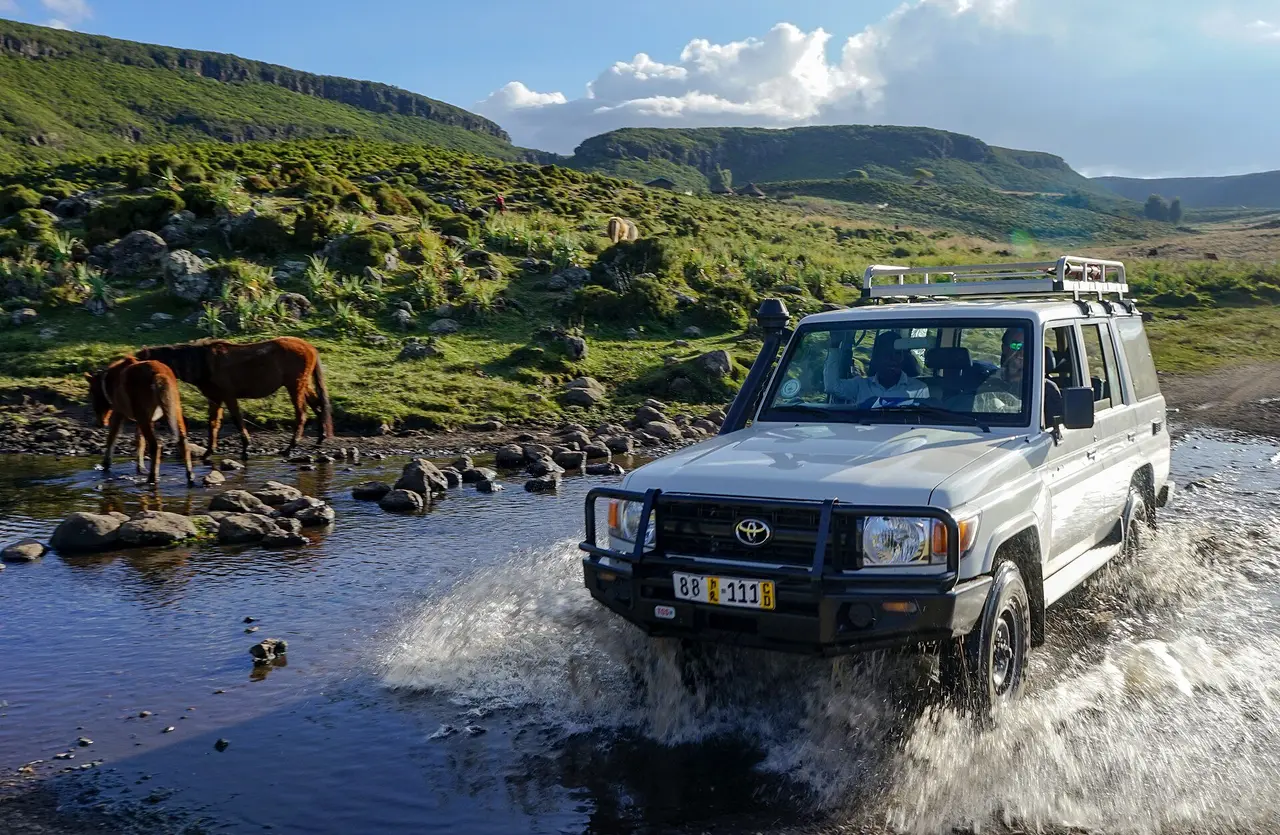
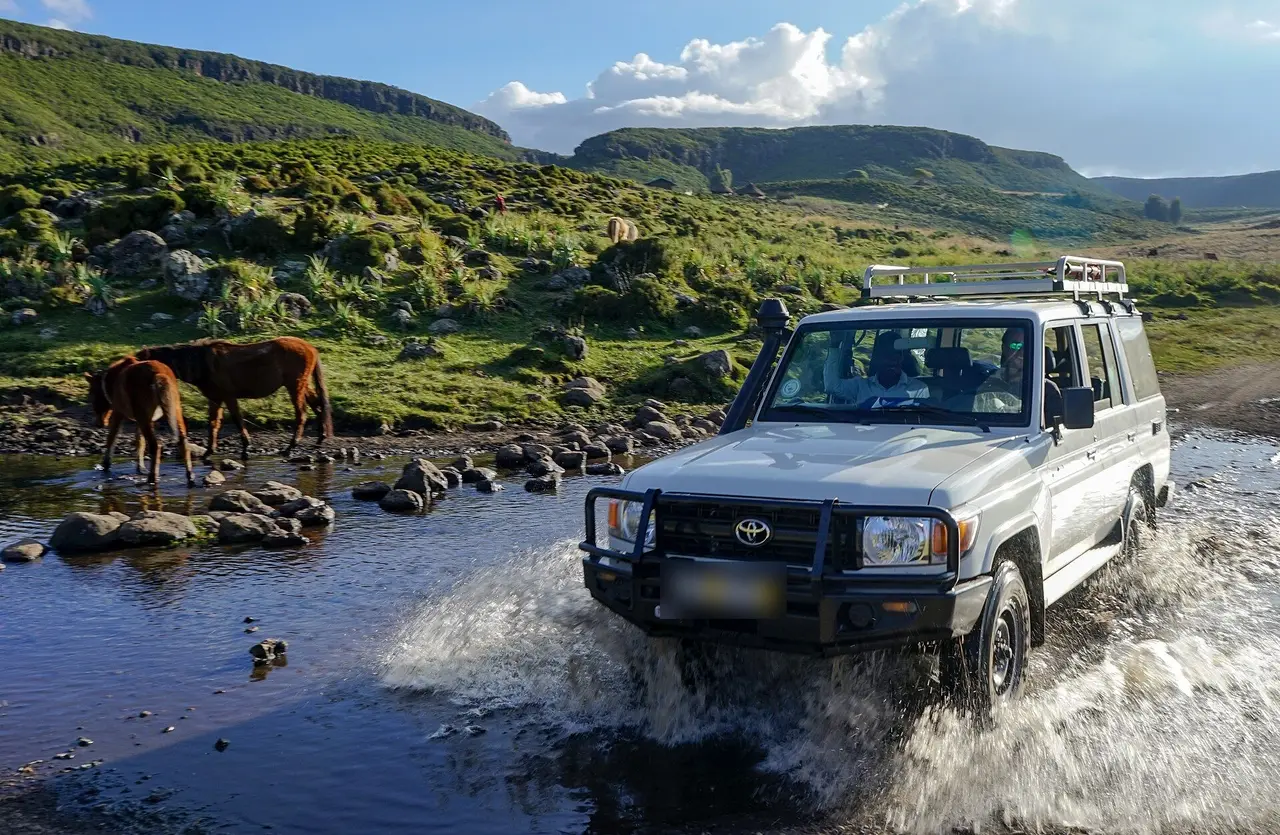
For-sale picks: same-model photos from our licensed library (credited, 'not this truck'); swap GX470 pick (only parked photos) for a 4th Gen 4Runner; blur LC70 river-crossing plate
Claude-Session: https://claude.ai/code/session_01Q1QwcL3BhkRrCtgHrzdRcF

Changed region(s): [[0.5, 0.6539, 0.625, 0.7473]]

diff --git a/site/for-sale/index.html b/site/for-sale/index.html
@@ -82,48 +82,56 @@ btAfterLoad(function(){var s=document.createElement('script');s.async=true;s.src
     <div class="sec-head"><div style="display:flex;flex-direction:column;gap:6px"><span class="eyebrow">This week's picks · Week of November 25, 2026</span><h2>Boxy trucks for sale this week</h2></div></div>
     <p class="sub-intro">Eight auctions worth watching this week, picked from every live Bring a Trailer listing that matches a truck we cover. Bids are as of Wednesday morning. Each card links to our checklist for that truck, so read it before you bid.</p>
     <div class="fs-grid"><article class="fs-card">
-      <div class="fs-top"><span class="mono fs-bid">$25,000 bid</span></div>
-      <h3><a href="https://bringatrailer.com/listing/2005-lexus-gx470-30/" target="_blank" rel="noopener" data-fs-click="1">37k-mile 2005 Lexus GX470 ↗</a></h3>
-      <p class="fs-ends mono">Ends Fri Nov 27, 3:05 PM ET</p>
-      <p>GX 470s sold for $15,555–24,750 on BaT in the past month (4 sales).</p>
-      <a class="inline-link" href="/models/lexus/gx470/problems/">What to check before you bid →</a>
+      <figure class="fs-ph"><img src="/img/4runner/gen4-vilano-beach.jpg" alt="A Toyota 4Runner 4th Gen (example photo, not the truck for sale)" loading="lazy" srcset="/img/_r/4runner/gen4-vilano-beach-480.webp 480w, /img/_r/4runner/gen4-vilano-beach-800.webp 800w, /img/_r/4runner/gen4-vilano-beach-1280.webp 1280w, /img/4runner/gen4-vilano-beach.jpg 2000w" sizes="(max-width: 760px) 100vw, (max-width: 1200px) 60vw, 720px" decoding="async"><figcaption>Same model, not this truck · Lance Asper</figcaption></figure>
+      <div class="fs-top"><span class="mono fs-bid">$9,500 bid</span></div>
+      <h3><a href="https://bringatrailer.com/listing/2004-toyota-4runner-50/" target="_blank" rel="noopener" data-fs-click="1">2004 Toyota 4Runner SR5 V8 ↗</a></h3>
+      <p class="fs-ends mono">Ends Fri Nov 27, 5:34 PM ET</p>
+      <p>4th Gen 4Runners sold for $12,250–28,500 last month, with all 5 selling (median $18,500).</p>
+      <a class="inline-link" href="/models/4runner/4th-gen/problems/">What to check before you bid →</a>
     </article><article class="fs-card">
+      <figure class="fs-ph"><img src="/img/land-cruiser/fj60-ingeegoodbee.jpg" alt="A Toyota Land Cruiser FJ60 (example photo, not the truck for sale)" loading="lazy" srcset="/img/_r/land-cruiser/fj60-ingeegoodbee-480.webp 480w, /img/_r/land-cruiser/fj60-ingeegoodbee-800.webp 800w, /img/_r/land-cruiser/fj60-ingeegoodbee-1280.webp 1280w, /img/land-cruiser/fj60-ingeegoodbee.jpg 2000w" sizes="(max-width: 760px) 100vw, (max-width: 1200px) 60vw, 720px" decoding="async"><figcaption>Same model, not this truck · Leighblackall · CC BY-SA 4.0</figcaption></figure>
       <div class="fs-top"><span class="mono fs-bid">$15,500 bid</span></div>
       <h3><a href="https://bringatrailer.com/listing/1984-toyota-land-cruiser-fj60-171/" target="_blank" rel="noopener" data-fs-click="2">1984 Toyota Land Cruiser FJ60, 4-speed ↗</a></h3>
       <p class="fs-ends mono">Ends Fri Nov 27, 1:46 PM ET</p>
       <p>60 Series median: $32,000 over the past month, with 12 of 13 sold.</p>
       <a class="inline-link" href="/models/land-cruiser/fj60/problems/">What to check before you bid →</a>
     </article><article class="fs-card">
+      <figure class="fs-ph"><img src="/img/lexus/lx450-dirt-mound.jpg" alt="A Lexus LX 450 (example photo, not the truck for sale)" loading="lazy" srcset="/img/_r/lexus/lx450-dirt-mound-480.webp 480w, /img/_r/lexus/lx450-dirt-mound-800.webp 800w, /img/lexus/lx450-dirt-mound.jpg 1024w" sizes="(max-width: 760px) 100vw, (max-width: 1200px) 60vw, 720px" decoding="async"><figcaption>Same model, not this truck · loefflerw · CC BY-SA 2.0</figcaption></figure>
       <div class="fs-top"><span class="mono fs-bid">$26,000 bid</span></div>
       <h3><a href="https://bringatrailer.com/listing/1996-lexus-lx450-85/" target="_blank" rel="noopener" data-fs-click="3">1996 Lexus LX450 ↗</a></h3>
       <p class="fs-ends mono">Ends Fri Nov 27, 6:11 PM ET</p>
       <p>All 17 LX 450s and 470s sold last month, at a $26,500 median. A 28k-mile LX 450 made $82,000.</p>
       <a class="inline-link" href="/models/lexus/lx450/problems/">What to check before you bid →</a>
     </article><article class="fs-card">
+      <figure class="fs-ph"><img src="/img/land-rover/defender-mud-splash.jpg" alt="A Land Rover 90 / 110 / Defender (example photo, not the truck for sale)" loading="lazy" srcset="/img/_r/land-rover/defender-mud-splash-480.webp 480w, /img/_r/land-rover/defender-mud-splash-800.webp 800w, /img/_r/land-rover/defender-mud-splash-1280.webp 1280w, /img/land-rover/defender-mud-splash.jpg 1800w" sizes="(max-width: 760px) 100vw, (max-width: 1200px) 60vw, 720px" decoding="async"><figcaption>Same model, not this truck · Thomas Tucker</figcaption></figure>
       <div class="fs-top"><span class="mono fs-bid">$10,250 bid</span><span class="fs-nr">No reserve</span></div>
       <h3><a href="https://bringatrailer.com/listing/1996-land-rover-defender-130-16/" target="_blank" rel="noopener" data-fs-click="4">1996 Land Rover Defender 130 300Tdi Hi-Cap, 5-speed ↗</a></h3>
       <p class="fs-ends mono">Ends Fri Nov 27, 7:25 PM ET</p>
       <p>No reserve. Classic Defenders sold at a $43,250 median last month, but only 16 of 33 met reserve.</p>
       <a class="inline-link" href="/models/land-rover/defender-90-110/problems/">What to check before you bid →</a>
     </article><article class="fs-card">
+      <figure class="fs-ph"><img src="/img/g-class/g55-schockl-forest-track.jpg" alt="A Mercedes-Benz G 55 AMG (example photo, not the truck for sale)" loading="lazy" srcset="/img/_r/g-class/g55-schockl-forest-track-480.webp 480w, /img/_r/g-class/g55-schockl-forest-track-800.webp 800w, /img/_r/g-class/g55-schockl-forest-track-1280.webp 1280w, /img/g-class/g55-schockl-forest-track.jpg 1920w" sizes="(max-width: 760px) 100vw, (max-width: 1200px) 60vw, 720px" decoding="async"><figcaption>Same model, not this truck · Bahnfrend · CC BY-SA 3.0</figcaption></figure>
       <div class="fs-top"><span class="mono fs-bid">$28,571 bid</span><span class="fs-nr">No reserve</span></div>
       <h3><a href="https://bringatrailer.com/listing/2005-mercedes-benz-g55-amg-47/" target="_blank" rel="noopener" data-fs-click="5">2005 Mercedes-Benz G55 AMG ↗</a></h3>
       <p class="fs-ends mono">Ends Fri Nov 27, 7:53 PM ET</p>
       <p>No reserve. Early W463 G 500s sold for $20,250–32,100 last month.</p>
       <a class="inline-link" href="/models/g-class/g55-amg/problems/">What to check before you bid →</a>
     </article><article class="fs-card">
+      <figure class="fs-ph"><img src="/img/land-cruiser/fj-cruiser-mountain-ledge.jpg" alt="A Toyota FJ Cruiser (example photo, not the truck for sale)" loading="lazy" srcset="/img/_r/land-cruiser/fj-cruiser-mountain-ledge-480.webp 480w, /img/_r/land-cruiser/fj-cruiser-mountain-ledge-800.webp 800w, /img/_r/land-cruiser/fj-cruiser-mountain-ledge-1280.webp 1280w, /img/land-cruiser/fj-cruiser-mountain-ledge.jpg 2000w" sizes="(max-width: 760px) 100vw, (max-width: 1200px) 60vw, 720px" decoding="async"><figcaption>Same model, not this truck · Brice Cooper</figcaption></figure>
       <div class="fs-top"><span class="mono fs-bid">$26,250 bid</span></div>
       <h3><a href="https://bringatrailer.com/listing/2010-toyota-fj-cruiser-95/" target="_blank" rel="noopener" data-fs-click="6">47k-mile 2010 Toyota FJ Cruiser Trail Teams Special Edition, 6-speed ↗</a></h3>
       <p class="fs-ends mono">Ends Fri Nov 27, 8:13 PM ET</p>
       <p>FJ Cruiser median: $23,000. A 16k-mile 2014 Trail Teams Ultimate made $68,888.</p>
       <a class="inline-link" href="/models/land-cruiser/fj-cruiser/problems/">What to check before you bid →</a>
     </article><article class="fs-card">
+      <figure class="fs-ph"><img src="/img/land-cruiser/lc70-bale-river-crossing.jpg" alt="A Toyota Land Cruiser 70 Series (example photo, not the truck for sale)" loading="lazy" srcset="/img/_r/land-cruiser/lc70-bale-river-crossing-480.webp 480w, /img/_r/land-cruiser/lc70-bale-river-crossing-800.webp 800w, /img/_r/land-cruiser/lc70-bale-river-crossing-1280.webp 1280w, /img/land-cruiser/lc70-bale-river-crossing.jpg 1920w" sizes="(max-width: 760px) 100vw, (max-width: 1200px) 60vw, 720px" decoding="async"><figcaption>Same model, not this truck · Nina R · CC BY 2.0</figcaption></figure>
       <div class="fs-top"><span class="mono fs-bid">$5,070 bid</span><span class="fs-nr">No reserve</span></div>
       <h3><a href="https://bringatrailer.com/listing/1993-toyota-land-cruiser-pzj70-3/" target="_blank" rel="noopener" data-fs-click="7">1993 Toyota Land Cruiser FZJ70 ↗</a></h3>
       <p class="fs-ends mono">Ends Mon Nov 30, 2:20 PM ET</p>
       <p>No reserve. 70 Series median: $16,900 (6 sold last month).</p>
       <a class="inline-link" href="/models/land-cruiser/70-series/problems/">What to check before you bid →</a>
     </article><article class="fs-card">
+      <figure class="fs-ph"><img src="/img/jeep/tj-shotgun-creek-rocks.jpg" alt="A Jeep Wrangler TJ (example photo, not the truck for sale)" loading="lazy" srcset="/img/_r/jeep/tj-shotgun-creek-rocks-480.webp 480w, /img/_r/jeep/tj-shotgun-creek-rocks-800.webp 800w, /img/_r/jeep/tj-shotgun-creek-rocks-1280.webp 1280w, /img/jeep/tj-shotgun-creek-rocks.jpg 2000w" sizes="(max-width: 760px) 100vw, (max-width: 1200px) 60vw, 720px" decoding="async"><figcaption>Same model, not this truck · Carlos Velez, Salem Jeepers, via BLM Oregon &amp; Washington · Public domain (as tagged on Commons)</figcaption></figure>
       <div class="fs-top"><span class="mono fs-bid">$13,000 bid</span></div>
       <h3><a href="https://bringatrailer.com/listing/2005-jeep-wrangler-323/" target="_blank" rel="noopener" data-fs-click="8">21k-mile 2005 Jeep Wrangler Rubicon 4.0 ↗</a></h3>
       <p class="fs-ends mono">Ends Mon Nov 30, 3:21 PM ET</p>

diff --git a/templates/hub.html b/templates/hub.html
@@ -91,6 +91,7 @@
     <div class="sec-head"><div style="display:flex;flex-direction:column;gap:6px"><span class="eyebrow">This week's picks · {{ FS_PICKS.title }}</span><h2>Boxy trucks for sale this week</h2></div></div>
     <p class="sub-intro">{{ FS_PICKS.intro }}</p>
     <div class="fs-grid">{% for pk in FS_PICKS.picks %}<article class="fs-card">
+      {% if pk.photo %}<figure class="fs-ph"><img src="{{ root }}{{ pk.photo }}" alt="{{ pk.photo_alt }}" loading="lazy"><figcaption>Same model, not this truck{% if pk.photo_credit %} · {{ pk.photo_credit }}{% endif %}</figcaption></figure>{% endif %}
       <div class="fs-top"><span class="mono fs-bid">${{ '{:,}'.format(pk.bid) }} bid</span>{% if pk.no_reserve %}<span class="fs-nr">No reserve</span>{% endif %}</div>
       <h3><a href="{{ pk.url }}" target="_blank" rel="noopener" data-fs-click="{{ loop.index }}">{{ pk.title }} ↗</a></h3>
       <p class="fs-ends mono">Ends {{ pk.ends_h }}</p>

diff --git a/site/assets/site.css b/site/assets/site.css
@@ -1192,3 +1192,7 @@ main section.rep-sec { contain-intrinsic-size: auto 56px; }
 .fs-nr { font-size: 11px; letter-spacing: .08em; text-transform: uppercase; border: 1px solid currentColor; padding: 2px 6px; }
 .fs-ends { font-size: 12px; opacity: .7; }
 @media (max-width: 520px) { .mr-notable li { grid-template-columns: 1fr; gap: 2px; } }
+.fs-card { padding-top: 0; }
+.fs-ph { margin: 0 -18px 4px; position: relative; }
+.fs-ph img { width: 100%; aspect-ratio: 16 / 10; object-fit: cover; display: block; border-bottom: 1px solid var(--ink); }
+.fs-ph figcaption { position: absolute; left: 0; right: 0; bottom: 0; padding: 14px 10px 6px; font-size: 11px; line-height: 1.3; color: #F7F4EE; background: linear-gradient(transparent, rgba(0,0,0,.65)); }

diff --git a/build.py b/build.py
@@ -1636,6 +1636,13 @@ def main():
         PICKS = jload(_pf[0])
         for _p in PICKS['picks']:
             _p['href'] = _gen_link(_p['fam'], _p.get('gen'), 'problems')
+            _pg = pages.get(_p['fam'], {}).get(_p.get('gen') or '') or {}
+            _hf = _pg.get('hero_photo')
+            if _hf:
+                _ph = next((x for x in _pg.get('photos', []) if x.get('file') == _hf), {})
+                _p['photo'] = f"img/{_p['fam']}/{_hf}"
+                _p['photo_credit'] = _ph.get('credit', '')
+                _p['photo_alt'] = f"A {mlabel(fams[_p['fam']]['maker'], _pg.get('title', ''))} (example photo, not the truck for sale)"
             _e = datetime.datetime.fromisoformat(_p['ends'].replace('Z', '+00:00')).astimezone(datetime.timezone(datetime.timedelta(hours=-5)))
             _p['ends_h'] = f'{_e:%a %b} {_e.day}, {_e.strftime("%I:%M %p").lstrip("0")} ET'
         PICKS['bids_as_of_h'] = _dh(PICKS['bids_as_of'])

diff --git a/reports/MARKET_PROCEDURE.md b/reports/MARKET_PROCEDURE.md
@@ -15,3 +15,8 @@ Bring a Trailer's own pages are the source. WebFetch can't reach them, so use Ch
 - **Weekly:** write `data/for-sale/YYYY-MM-DD.json` with 8 picks: title, url, bid, ends (UTC ISO), no_reserve, fam, gen, and a context line built only from the latest market report. The newest file shows on /for-sale/#picks.
 - Then build, check both pages at 400 px, commit and push. Put the picks in the next Dispatch draft (NEWSLETTER.md "For sale this week").
 - **Credit:** link to BaT and quote no listing text, only titles, prices and dates.
+
+## Photos on the picks (Hank, Nov 25, 2026)
+Each card shows our own licensed hero photo for that generation, captioned "Same model, not this truck · credit". We never use Bring a Trailer's listing photos. Before publishing, check every card's photo:
+- No readable plates. If one is readable, blur it in the source under site/img/ and delete its site/img/_r/ variants.
+- No parked, street or lot shots. If the generation only has parked photos (as with the GX 470 on Nov 25), swap that pick for a truck whose generation has an off-road photo.
